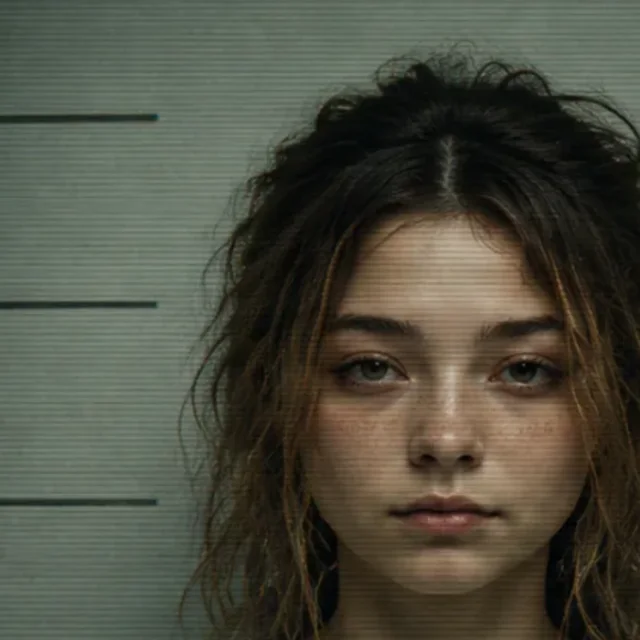
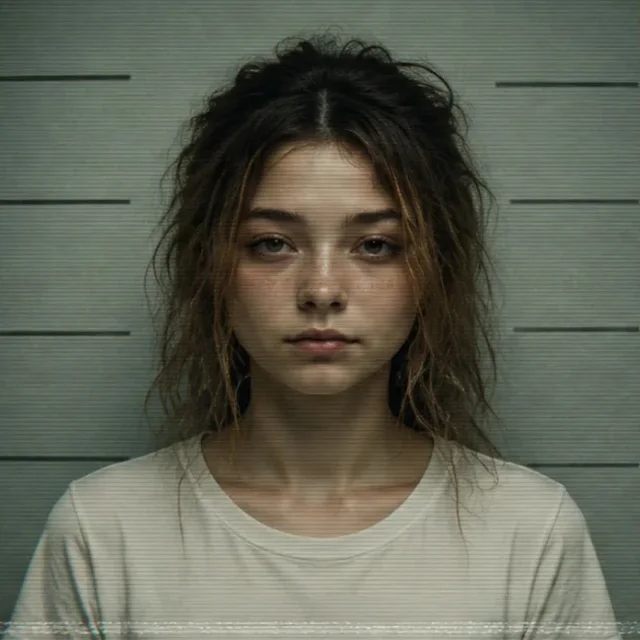
new pic

diff --git a/docs/AGENT_STATUS.md b/docs/AGENT_STATUS.md
@@ -9,9 +9,9 @@
 |---|---|
 | Обновлено | 2026-09-07 CDT |
 | Ветка / HEAD | `main` / `fc5562e` |
-| Дерево | dirty: архивные preview-кропы + перестановка материалов в досье SZ-312 |
-| Активная линия | Досье SZ-312: разнесённые вводный mugshot и confidential file |
-| Последний этап | Второе изображение `dossier-sz-312-03.jpg` перенесено после раздела «Происхождение», чтобы два стартовых материала не шли подряд. Production build/verifier пройдены; desktop `1280×800` и mobile `390×844`: horizontal overflow `0`, console `0`. |
+| Дерево | dirty: архивные preview-кропы + перестановка материалов в досье SZ-312 + preview Ирины |
+| Активная линия | Архив: одиночный фронтальный preview Ирины |
+| Последний этап | `dossier-irina.webp` заменён supplied `irina-record-1 copy.jpg` в квадратном `640×640` формате; существующая привязка `archive.html` сохранена. Production build/verifier, target path, dimensions и `git diff --check` пройдены. |
 | Commit / push / deploy | только по прямой просьбе пользователя |
 | Следующий gate | commit/push/deploy отдельно |
 
